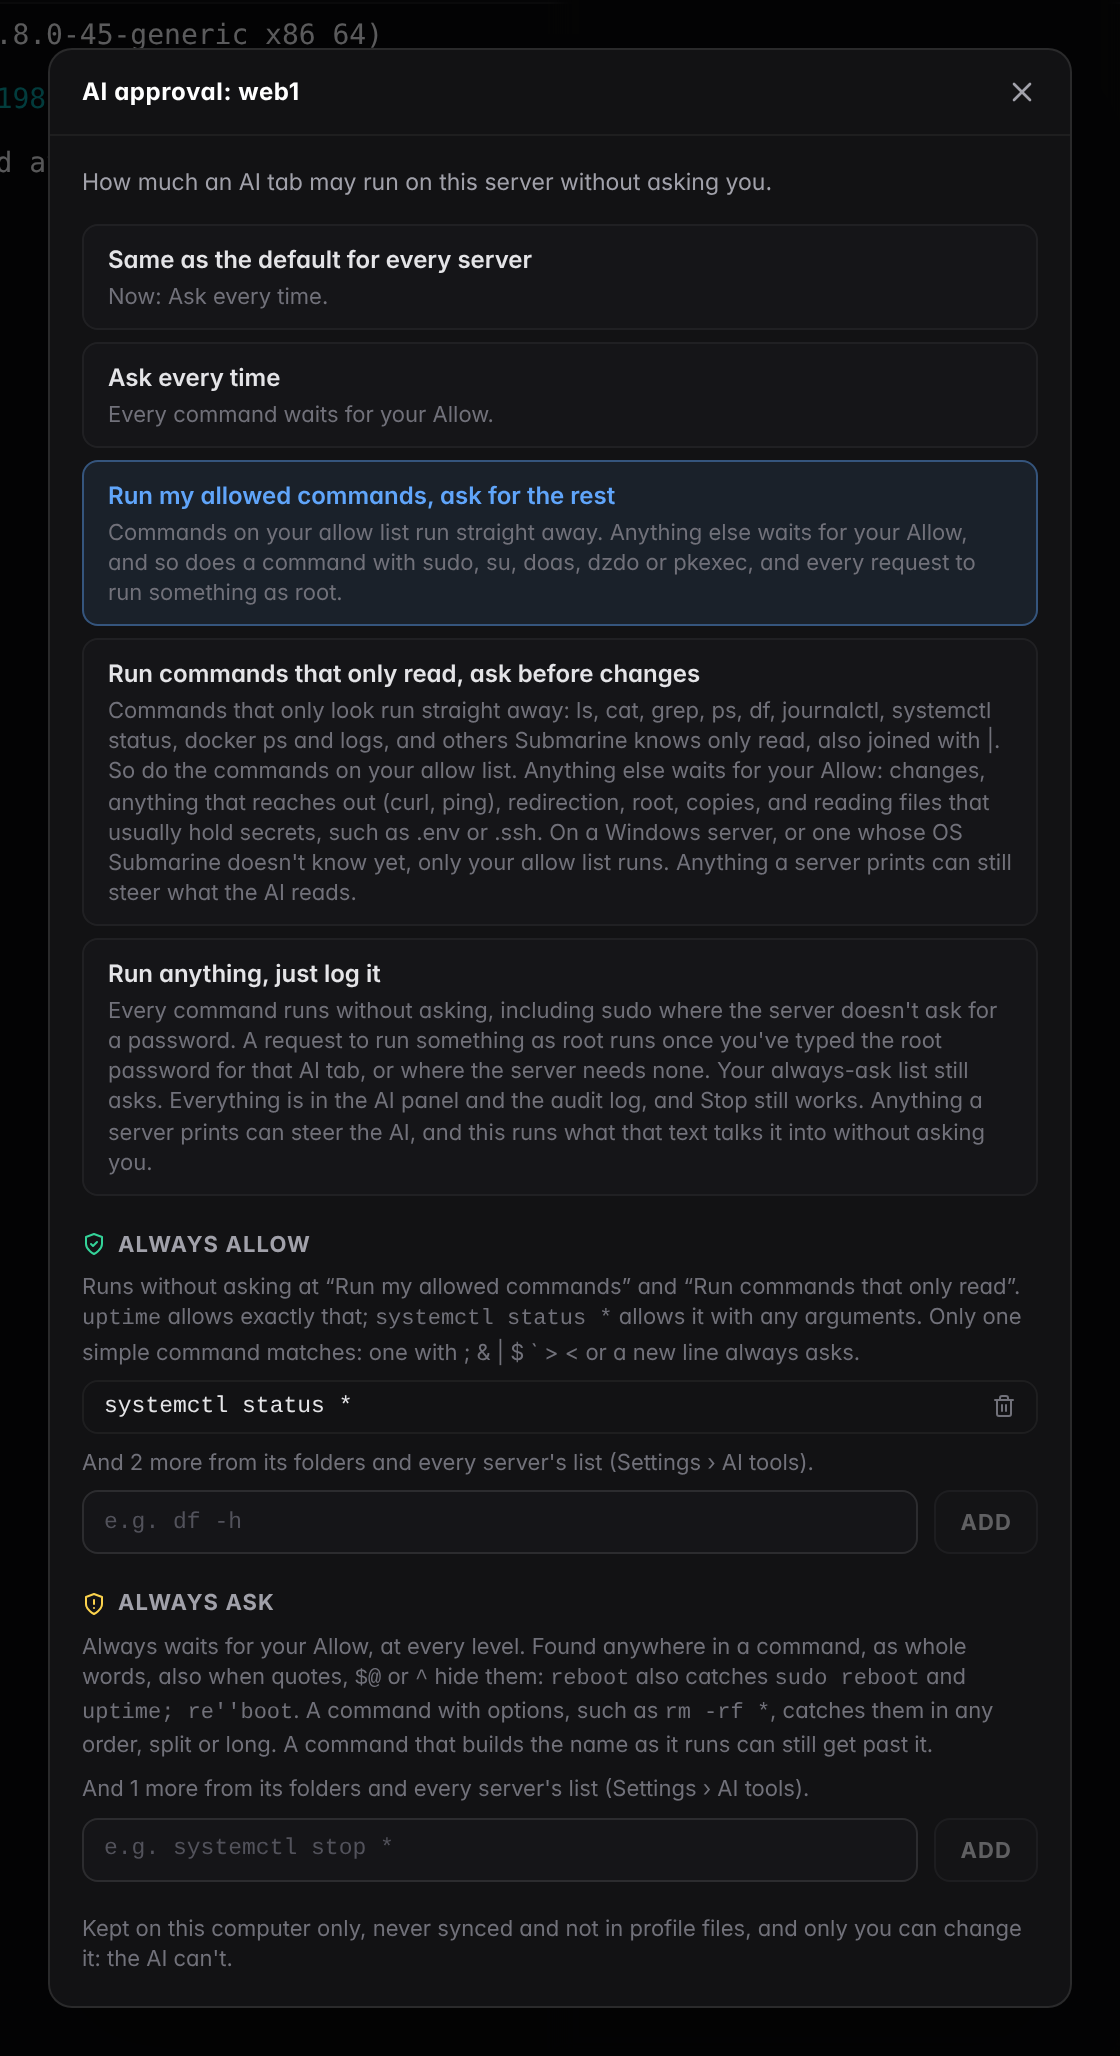
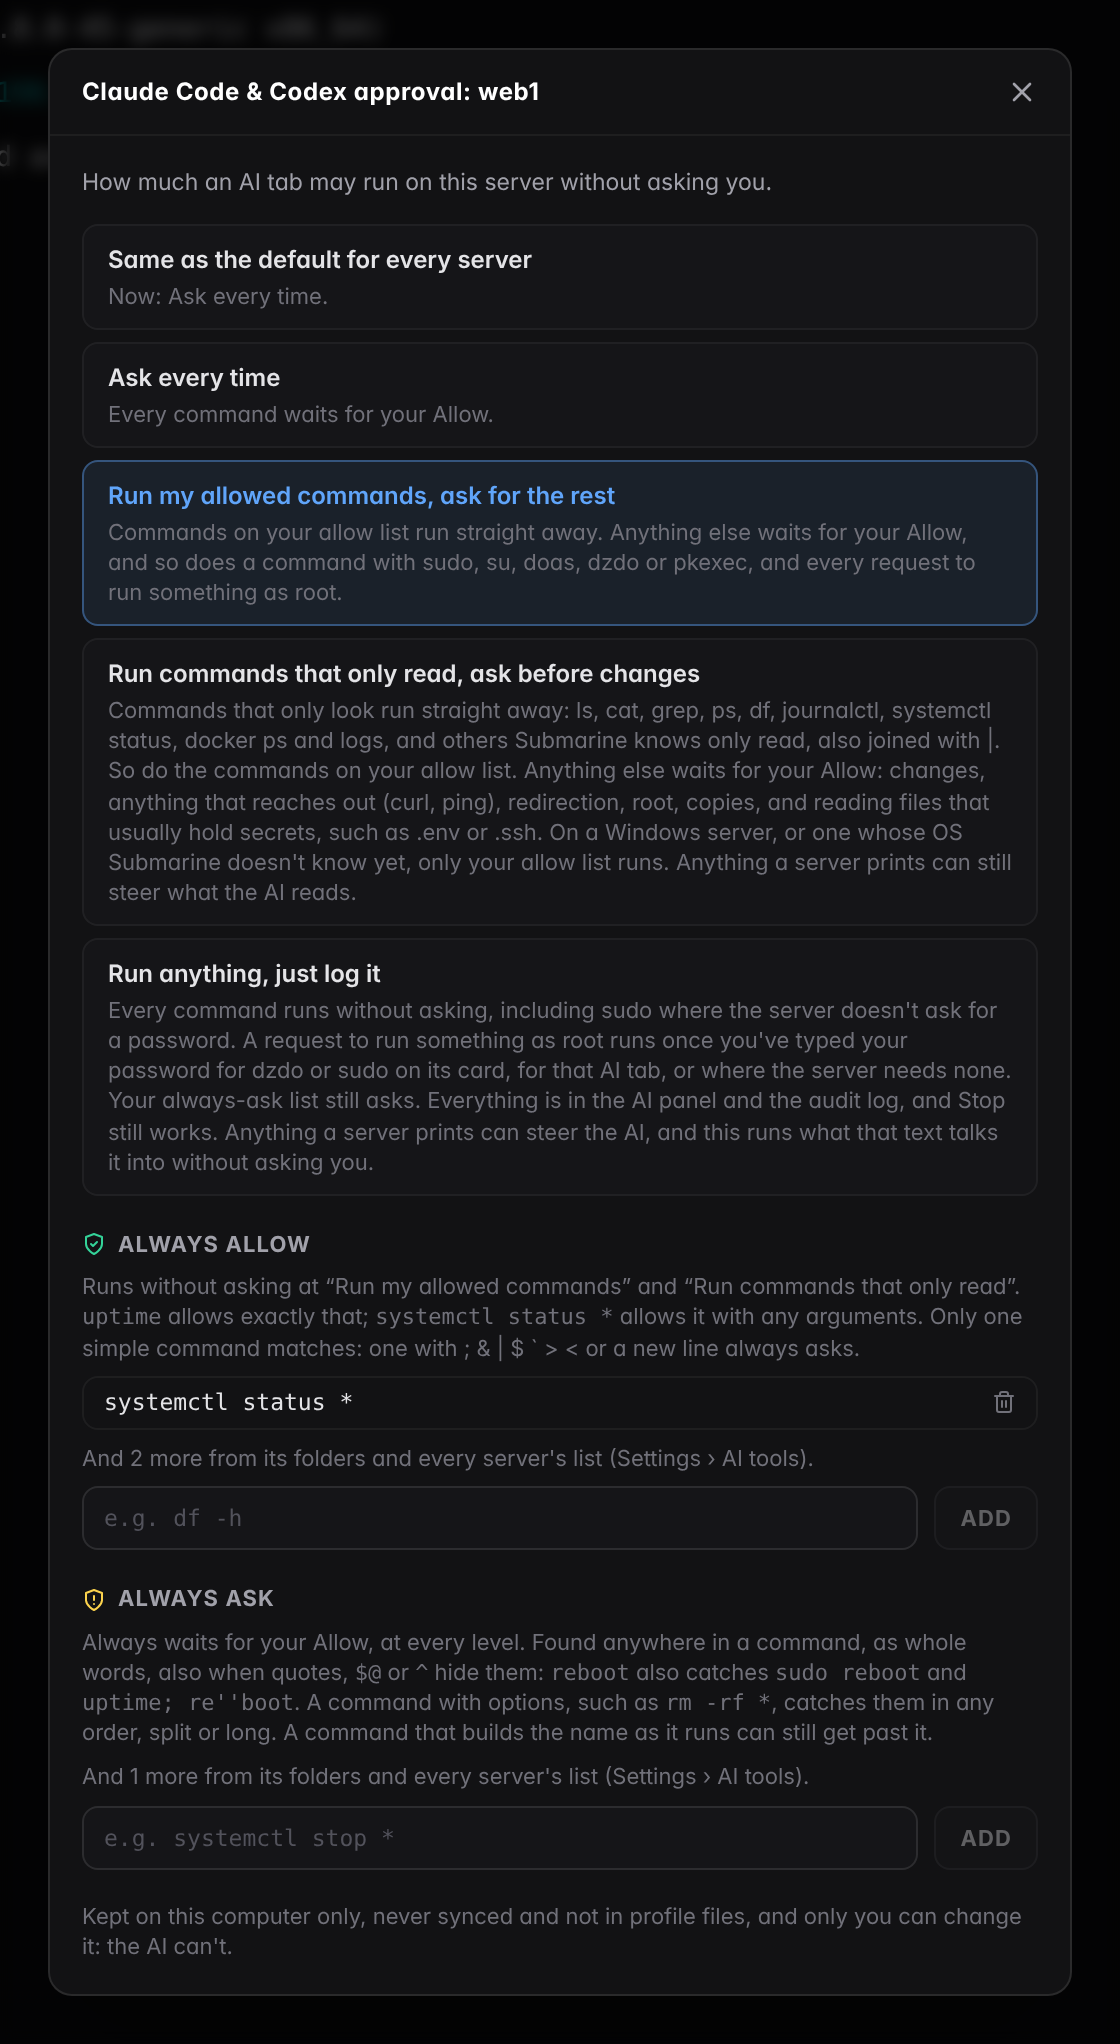
The prompt shows at once after a long listing, and "Claude Code & Codex approval…" in the session tree (#271)
Closes #268
Closes #269

Claude-Session: https://claude.ai/code/session_019vpDyo7vH4CGsynUnrG6QT

diff --git a/src/components/SessionTree.tsx b/src/components/SessionTree.tsx
@@ -123,7 +123,7 @@ export const SessionTree = ({
 }) => {
   const confirm = useConfirm();
   const prompt = useTextPrompt();
-  // "AI approval…" in the menus, while AI tools are on (#115).
+  // "Claude Code & Codex approval…" in the menus, while AI tools are on (#115).
   const aiOn = useAi().enabled;
   const [search, setSearch] = useState("");
   const [openOnly, setOpenOnly] = useState(readOpenOnly);
@@ -887,7 +887,7 @@ export const SessionTree = ({
                 </button>
                 {aiOn && !many && (
                   <button className={menuItem} onClick={run(() => openAiTrust({ scope: "folder", id: f.id, name: f.name }))}>
-                    <Bot size={13} className={menuIcon} /> AI approval for this folder…
+                    <Bot size={13} className={menuIcon} /> Claude Code & Codex approval for this folder…
                   </button>
                 )}
                 {menuSep}
@@ -964,7 +964,7 @@ export const SessionTree = ({
                 )}
                 {aiOn && !many && (r.server.protocol ?? "ssh") === "ssh" && (
                   <button className={menuItem} onClick={run(() => openAiTrust({ scope: "server", id: r.server.id, name: r.server.name }))}>
-                    <Bot size={13} className={menuIcon} /> AI approval…
+                    <Bot size={13} className={menuIcon} /> Claude Code & Codex approval…
                   </button>
                 )}
                 {/* Its kept sessions (#126), listed over one of its open tabs. */}

diff --git a/src/ui/highlight.ts b/src/ui/highlight.ts
@@ -781,6 +781,10 @@ const CONTROL = /[\x00-\x08\x0a-\x1f\x7f-\x9f]/g;
 const HOLD_AFTER = 512;
 const HOLD_MAX = 4096;
 const HOLD_MS = 25;
+/** The end of a shell's prompt (`$ `, `# `, `> `, `% `): the last thing a
+ *  command prints, so nothing more is on its way. After a big batch (a long
+ *  listing, a `cat`), holding it made the prompt show HOLD_MS late (#234). */
+const PROMPT_END = /[$#>%] ?$/;
 
 /** The most time highlighting takes in any one second. Past that, in a
  *  flood (a `cat` of a big file), only the last TAIL_CHARS of each batch are
@@ -905,7 +909,7 @@ export class HighlightStream {
     // A batch that ends partway through a line: after a big one (a stream),
     // the rest is probably on its way, so that part waits for it.
     const last = parts[parts.length - 1];
-    if (last && typeof last !== "string" && text.length >= HOLD_AFTER && last.text.length < HOLD_MAX) {
+    if (last && typeof last !== "string" && text.length >= HOLD_AFTER && last.text.length < HOLD_MAX && !PROMPT_END.test(last.text)) {
       this.held = parts.pop() as Plain;
       this.timer = window.setTimeout(() => {
         this.timer = 0;

diff --git a/tools/test/perf.test.ts b/tools/test/perf.test.ts
@@ -180,6 +180,20 @@ describe("highlighting a batch of output", () => {
     expect(vi.getTimerCount()).toBe(0);
     stream.dispose();
   });
+
+  it("doesn't hold the prompt after a big burst: it shows in the same call", () => {
+    const stream = new HighlightStream(() => {});
+    stream.setMatcher(buildMatcher("standard", [])!, false);
+    const big = `${"line of output\r\n".repeat(200)}`;
+    for (const prompt of ["user@web1:~$ ", "[root@db ~]# ", "PS C:\\> ", "host% "]) {
+      expect(stream.push(new TextEncoder().encode(big + prompt))).toContain(prompt);
+      expect(vi.getTimerCount(), prompt).toBe(0);
+    }
+    // A line cut off mid-word in a stream still waits for the rest of it.
+    stream.push(new TextEncoder().encode(`${big}build ok`));
+    expect(vi.getTimerCount()).toBe(1);
+    stream.dispose();
+  });
 });
 
 describe("highlighting against the clock", () => {

diff --git a/src/components/AiTrust.tsx b/src/components/AiTrust.tsx
@@ -176,7 +176,7 @@ export const AiTrustModal = () => {
     return () => window.removeEventListener("keydown", onKey);
   }, [target]);
   if (!target) return null;
-  const title = target.scope === "default" ? "AI approval for every server" : `AI approval: ${target.name}`;
+  const title = target.scope === "default" ? "Claude Code & Codex approval for every server" : `Claude Code & Codex approval: ${target.name}`;
   return (
     <div className="fixed inset-0 z-[10000] bg-black/60 backdrop-blur-sm flex items-center justify-center p-3" onClick={closeAiTrust}>
       <div role="dialog" aria-modal="true" aria-label={title} className="w-full max-w-lg max-h-[85vh] flex flex-col bg-[#121214] border border-white/10 rounded-xl shadow-2xl" onClick={(e) => e.stopPropagation()}>

diff --git a/FORK.md b/FORK.md
@@ -92,7 +92,7 @@ A first test, off by default. To try it, install Claude Code or Codex, turn on *
       <br/><sub><b>The AI panel</b>: one card for a command on three servers, a copy, and a log being followed</sub>
     </td>
     <td width="50%" valign="top" align="center">
-      <img src="docs/screenshots/fork/ai-levels.png" alt="AI approval for the server web1: the four levels, Ask every time, Run my allowed commands, ask for the rest (chosen), Run commands that only read, ask before changes, and Run anything, just log it with its warning, then the always-allow and always-ask lists" />
+      <img src="docs/screenshots/fork/ai-levels.png" alt="Claude Code & Codex approval for the server web1: the four levels, Ask every time, Run my allowed commands, ask for the rest (chosen), Run commands that only read, ask before changes, and Run anything, just log it with its warning, then the always-allow and always-ask lists" />
       <br/><sub><b>How much the AI may run without asking</b>, per server, folder or every server</sub>
     </td>
   </tr>
@@ -100,7 +100,7 @@ A first test, off by default. To try it, install Claude Code or Codex, turn on *
 
 - **Claude Code or Codex from Home's menu** opens already connected to Submarine through a local channel only your account can use. Nothing listens on the network. Each AI tool is an entry in a list, given Submarine's MCP server the way that tool takes one, so adding another is little code ([#117](https://github.com/paulm981/Submarine/issues/117)).
 - **Share with AI** on a server's tab lets that AI tab ask to run commands there. Unless you've said otherwise (below), each one waits in the **AI panel** (the title bar's AI button) until you click Allow or Deny; typing can't approve anything. Its card says which server it runs on and as whom ("on **web-01** as **root**"). A tab logged in as root, or a command with sudo, dzdo, su, doas or pkexec, is marked as root. Where those need no password, nothing asks first, and Submarine can't always tell. **Deny with a note** tells the AI why, so it can try another way. When a command waits for you and Submarine isn't in front, its taskbar button flashes (you can turn that off).
-- **How much it may run without asking is up to you, per server.** **Ask every time** is the default. **Run my allowed commands, ask for the rest** runs the commands on your allow list straight away. **Run commands that only read, ask before changes** also runs commands Submarine knows only look (below). **Run anything, just log it** runs every command, sudo included where the server doesn't ask for a password. Set it on a server or a folder from the session tree's right-click menu (**AI approval…**), or for every server in **Settings › AI tools**; a server's own setting wins over its folder's, and a folder's over the default.
+- **How much it may run without asking is up to you, per server.** **Ask every time** is the default. **Run my allowed commands, ask for the rest** runs the commands on your allow list straight away. **Run commands that only read, ask before changes** also runs commands Submarine knows only look (below). **Run anything, just log it** runs every command, sudo included where the server doesn't ask for a password. Set it on a server or a folder from the session tree's right-click menu (**Claude Code & Codex approval…**; the original project's AI and agents such as AGY have their own **AI permission level…** on a server's card), or for every server in **Settings › AI tools**; a server's own setting wins over its folder's, and a folder's over the default.
   - **Allow rules** match one whole, simple command: `uptime` exactly, `systemctl status *` with any arguments, `cat /var/log/*` with the rest of that one word (no second file, no `..`). A command with `;`, `&&`, `|`, `$(`, a backtick, a redirect, a new line, a hidden or full-width character never matches, nor `%` or `^` on a Windows server. sudo, su, doas, dzdo, pkexec, sudoedit, run0, runuser and `machinectl shell` always ask unless the server runs anything, however they're written. **Always allow this command here** on a card adds one; a pattern for a command that runs other commands (`timeout *`, `bash *`, `find *`) says so by name and takes one more click.
   - **The always-ask list** beats every allow rule and **Run anything**. It finds its words anywhere in a command, read twice: plainly, and with what can hide a word taken out (quotes, `$@`, `${…}`, empty `$()`, brace groups, cmd.exe's `^` and `%…%`, PowerShell's backticks, a path or `.exe`, and globs where a program's name goes, so `/sbin/reb?ot` asks but `ls *.txt` doesn't). `rm -rf *` catches its options in any order, split or long. A command that builds the name as it runs can still get past it. It starts with `reboot`, `shutdown`, `rm -rf *`, `dd *`, `format`, `Restart-Computer` and a few more.
   - **Commands that only read** ([#190](https://github.com/paulm981/Submarine/issues/190)) are decided by Submarine, from a list, never by the AI. Anything not on the list asks.

diff --git a/changelog.d/269.md b/changelog.d/269.md
@@ -1,0 +1,1 @@
+- **"AI approval…" is now "Claude Code & Codex approval…"** in the session tree's menu, so it isn't mistaken for the server card's "AI permission level…", which is for the original project's AI and agents such as AGY. ([#269](https://github.com/paulm981/Submarine/issues/269))

diff --git a/changelog.d/268.md b/changelog.d/268.md
@@ -1,0 +1,1 @@
+- **The prompt shows at once after a long listing.** With highlighting on, the prompt after a big burst of output (a long `ls`, a `cat`) no longer waits a moment before it appears. ([#268](https://github.com/paulm981/Submarine/issues/268))
